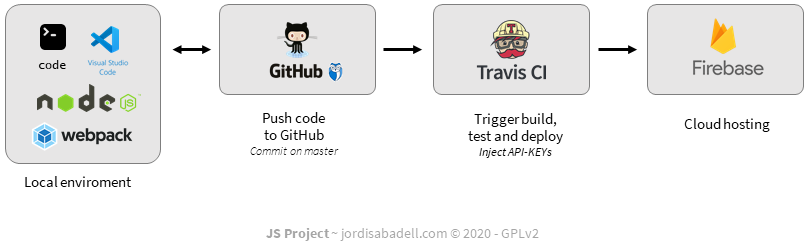
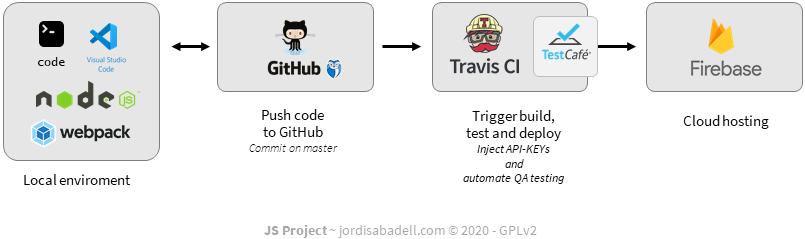
Add Testcafe description

diff --git a/README.md b/README.md
@@ -46,6 +46,7 @@ HTML, CSS and Javascript.
 - GitHub (https://github.com/)
 - TravisCI (https://travis-ci.com/)
 - Google Firebase hosting (https://console.firebase.google.com/)
+- TestCafe (https://devexpress.github.io/testcafe/)
 
 ## Tools and performance
 - Web Manifest generator (https://app-manifest.firebaseapp.com)
@@ -74,8 +75,9 @@ This static web has been created from the following challenges.
 - [x] Inject data, using functions as a services (FaaS), to Firebase Realtime Database.
 - [x] Secure relational operations using a captcha. I started with Google reCaptcha v2 and then I migrate to v3 (see backend at [kilometresolidari-php-scripts](https://github.com/jordisabadell/kilometresolidari-php-scripts)).
 - [x] Receive push notification from Firebase.
-- [x] Automate tests using Selenium IDE.
-- [x] Automate deploy from GitHub to Google Firebase cloud hosting. Using travis and preserve APIKEYs on GitHub, using GitGuardian.
+- [x] Preserve APIKEYs on GitHub using GitGuardian.
+- [x] Automate deploy from GitHub to Google Firebase cloud hosting using Travis CI.
+- [x] Automate tests using Selenium IDE and TestCafe (on Travis pipeline).
 
 ---
 
